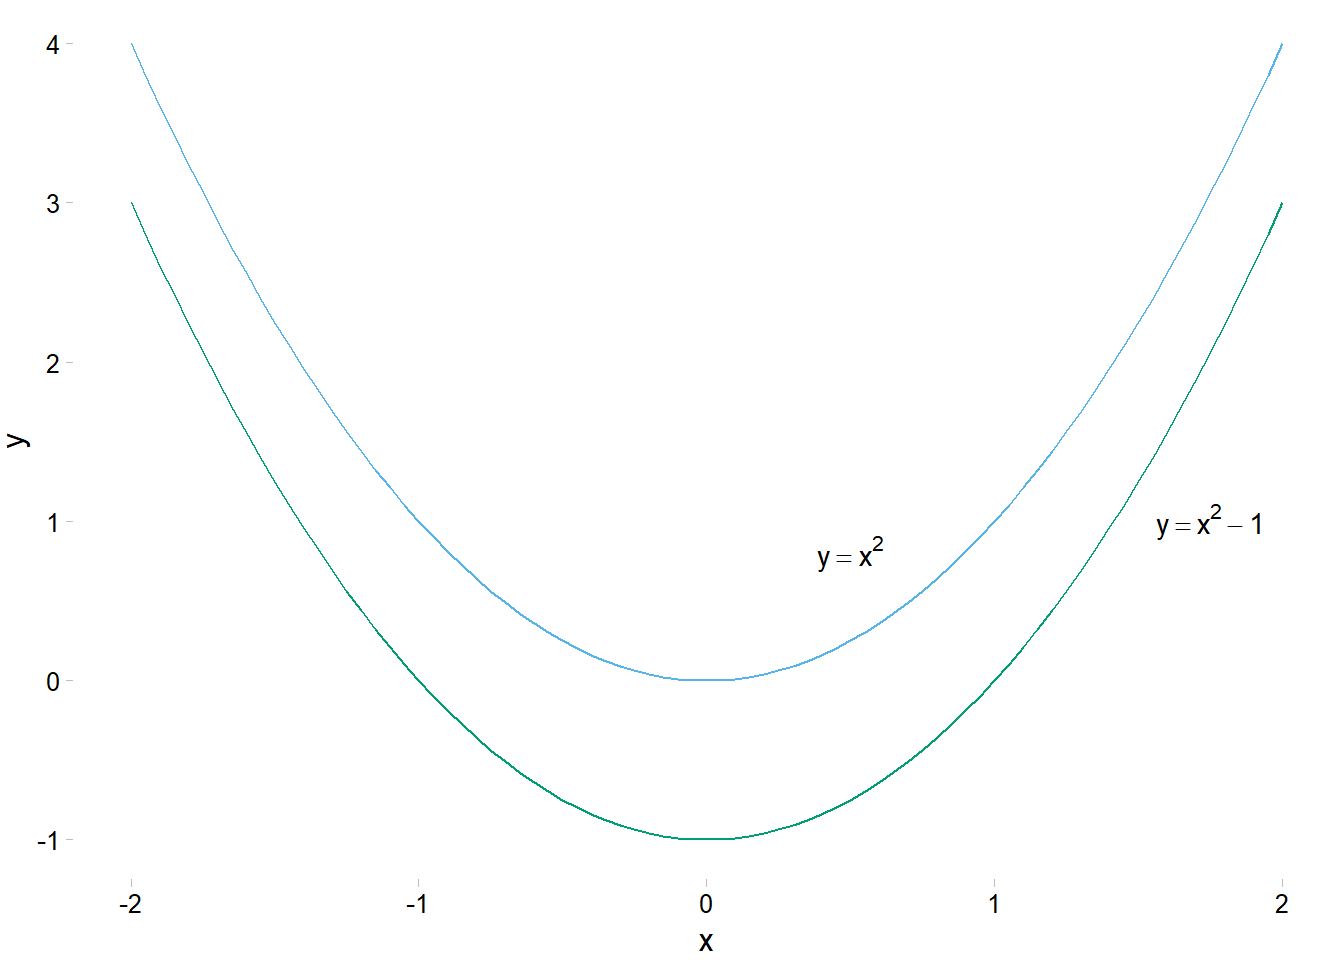
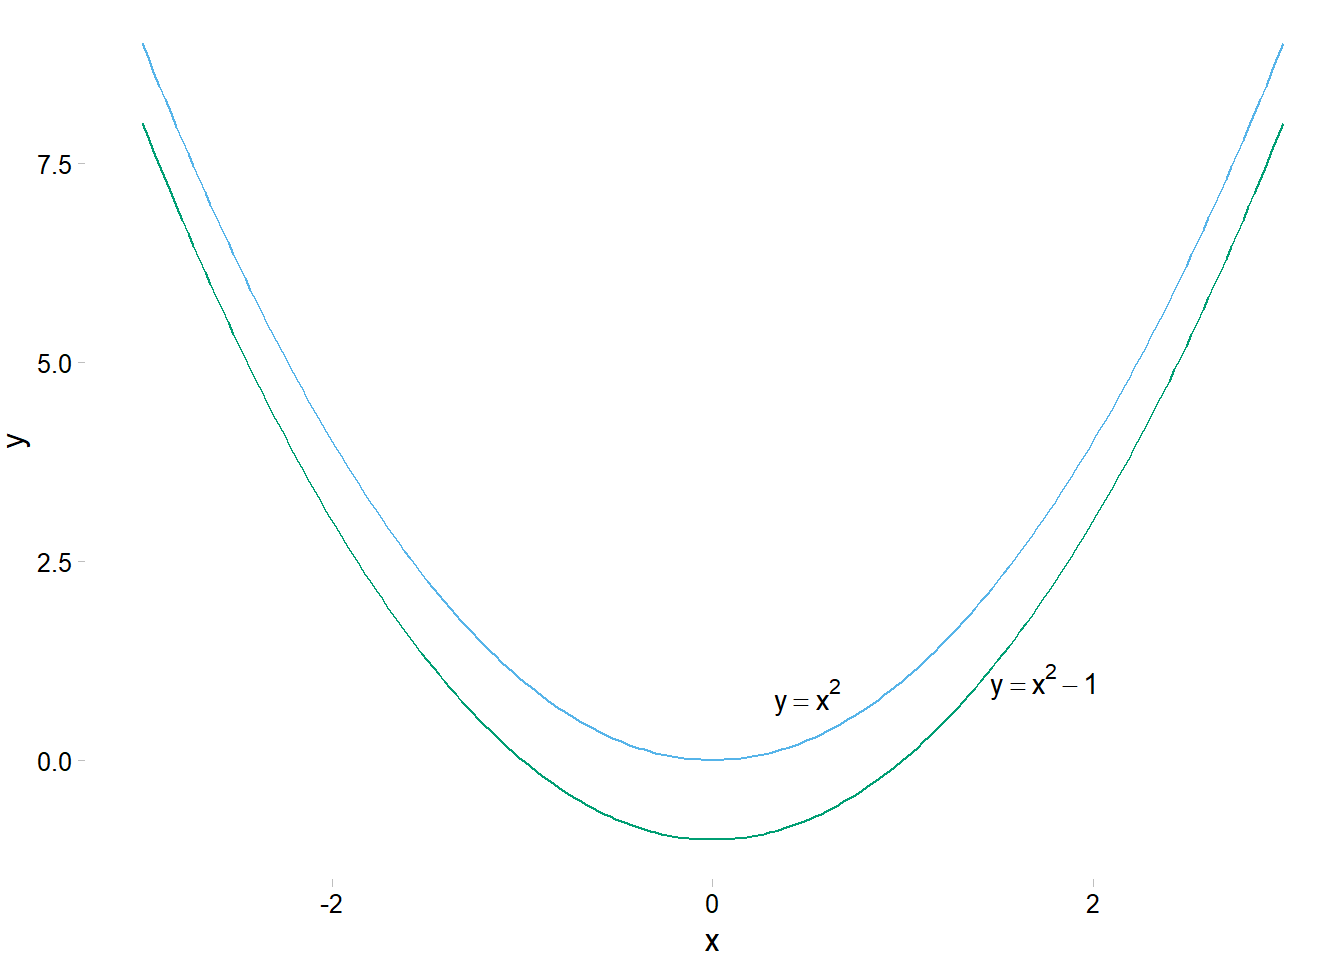
using a wider domain and a smaller a to show the lines and curves better

diff --git a/content/blog/2018-08-08-deriving-the-quotient-rule-from-the-product-rule.html b/content/blog/2018-08-08-deriving-the-quotient-rule-from-the-product-rule.html
@@ -107,7 +107,7 @@ library(ggthemes)
 
 parabolas &lt;- 
   dplyr::tibble(
-  abscissa = seq(-2, 2, by = 0.05),
+  abscissa = seq(-3, 3, by = 0.03),
   ordinate_1 = abscissa ^ 2,
   ordinate_2 = ordinate_1 - 1
 ) %&gt;% 
@@ -220,7 +220,7 @@ y &amp;= 2ax - a^2
 y &amp;= x^2 - 1
 \end{align}
 \]</span></p>
-<pre class="r"><code>a &lt;- 0.2
+<pre class="r"><code>a &lt;- -0.3
 
 slope_1 = 2 * a
 
@@ -239,7 +239,7 @@ parabolas +
   geom_abline(
     slope = slope_2,
     intercept = intercept_2,
-    color = ggthemes::palette_pander(4)[4]
+    color = ggthemes::palette_pander(5)[5]
   )</code></pre>
 <p><img src="/blog/2018-08-08-deriving-the-quotient-rule-from-the-product-rule_files/figure-html/parabola_tangents-1.png" width="672" style="display: block; margin: auto;" /></p>
 <p>Graphically, this proves that the tangent lines of <span class="math inline">\(y = x^2\)</span> at <span class="math inline">\((a, a^2)\)</span> and <span class="math inline">\((a + 2, (a + 2)^2)\)</span> intersect at <span class="math inline">\(y = x^2 - 1\)</span>.</p>

diff --git a/public/blog/deriving-quotient-rule-product-rule/index.html b/public/blog/deriving-quotient-rule-product-rule/index.html
@@ -224,7 +224,7 @@ library(ggthemes)
 
 parabolas &lt;- 
   dplyr::tibble(
-  abscissa = seq(-2, 2, by = 0.05),
+  abscissa = seq(-3, 3, by = 0.03),
   ordinate_1 = abscissa ^ 2,
   ordinate_2 = ordinate_1 - 1
 ) %&gt;% 
@@ -337,7 +337,7 @@ y &amp;= 2ax - a^2
 y &amp;= x^2 - 1
 \end{align}
 \]</span></p>
-<pre class="r"><code>a &lt;- 0.2
+<pre class="r"><code>a &lt;- -0.3
 
 slope_1 = 2 * a
 
@@ -356,7 +356,7 @@ parabolas +
   geom_abline(
     slope = slope_2,
     intercept = intercept_2,
-    color = ggthemes::palette_pander(4)[4]
+    color = ggthemes::palette_pander(5)[5]
   )</code></pre>
 <p><img src="/blog/2018-08-08-deriving-the-quotient-rule-from-the-product-rule_files/figure-html/parabola_tangents-1.png" width="672" style="display: block; margin: auto;" /></p>
 <p>Graphically, this proves that the tangent lines of <span class="math inline">\(y = x^2\)</span> at <span class="math inline">\((a, a^2)\)</span> and <span class="math inline">\((a + 2, (a + 2)^2)\)</span> intersect at <span class="math inline">\(y = x^2 - 1\)</span>.</p>
